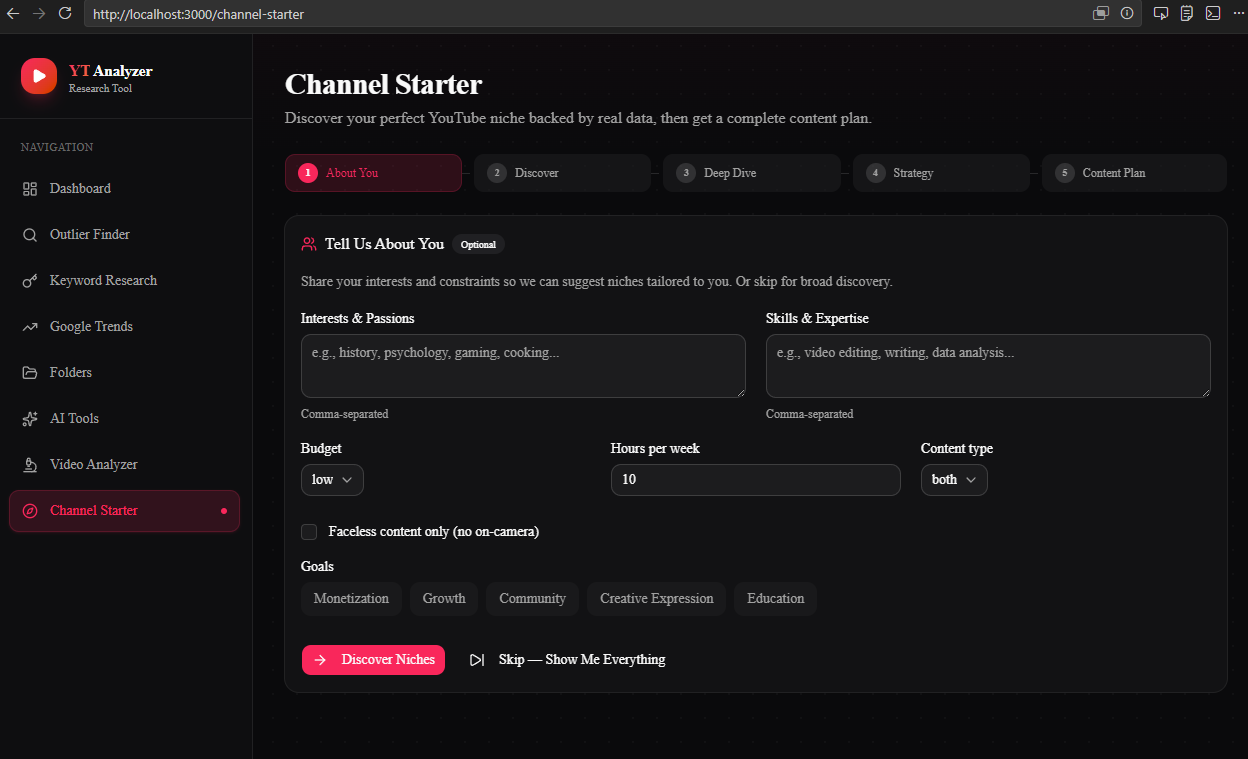
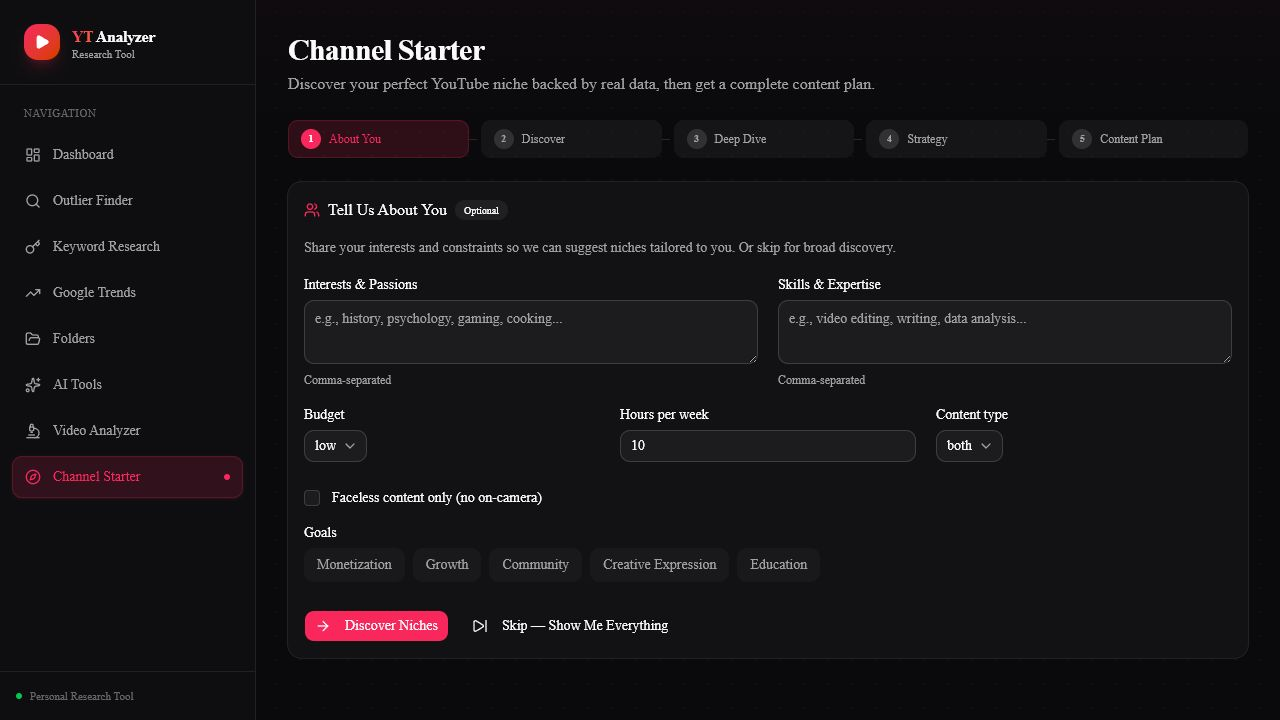
Refresh project screenshots and README gallery

diff --git a/README.md b/README.md
@@ -2,8 +2,6 @@
 
 Full-stack YouTube research platform for creators and content teams. YT Analyzer helps find outlier videos, analyze transcripts, compare trends, research keywords, and generate AI-assisted content ideas.
 
-![OutlierFinder](public/screenshots/outlier-finder.png)
-
 Built with **Next.js 16**, **React 19**, **TypeScript**, **Tailwind CSS 4**, **Prisma**, **SQLite**, **Google Gemini**, **YouTube Data API**, and **Google Trends**.
 
 ## Features
@@ -14,6 +12,16 @@ Built with **Next.js 16**, **React 19**, **TypeScript**, **Tailwind CSS 4**, **P
 - **Google Trends** - Compare keyword interest over time and inspect rising queries and regional interest.
 - **AI Tools** - Generate ideas from saved folders and summarize videos.
 - **Folders** - Save videos into collections for later research and batch analysis.
+
+## Screenshots
+
+### Outlier Finder
+
+![Outlier Finder showing ranked YouTube video opportunities](public/screenshots/outlier-finder.png)
+
+### Google Trends
+
+![Google Trends showing keyword interest over time](public/screenshots/google-trends.png)
 
 ## API Setup
 
